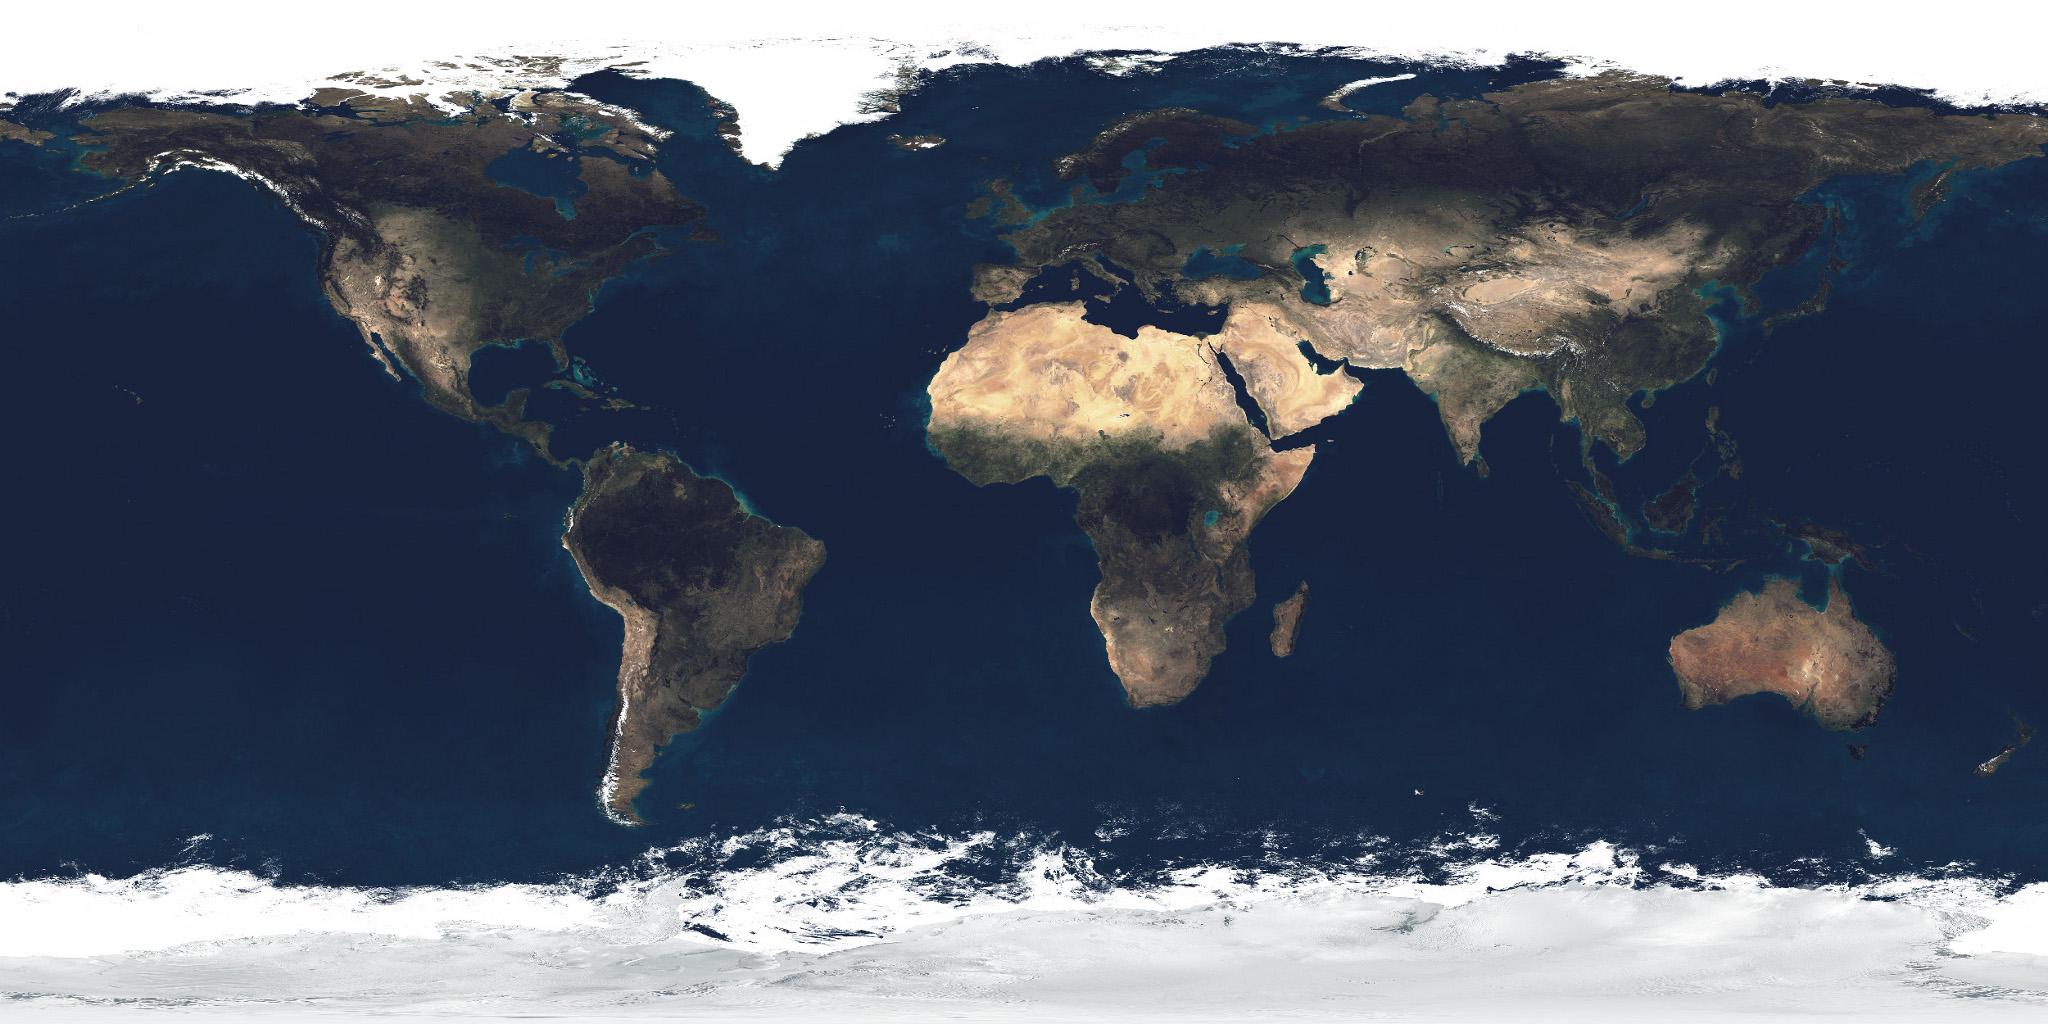
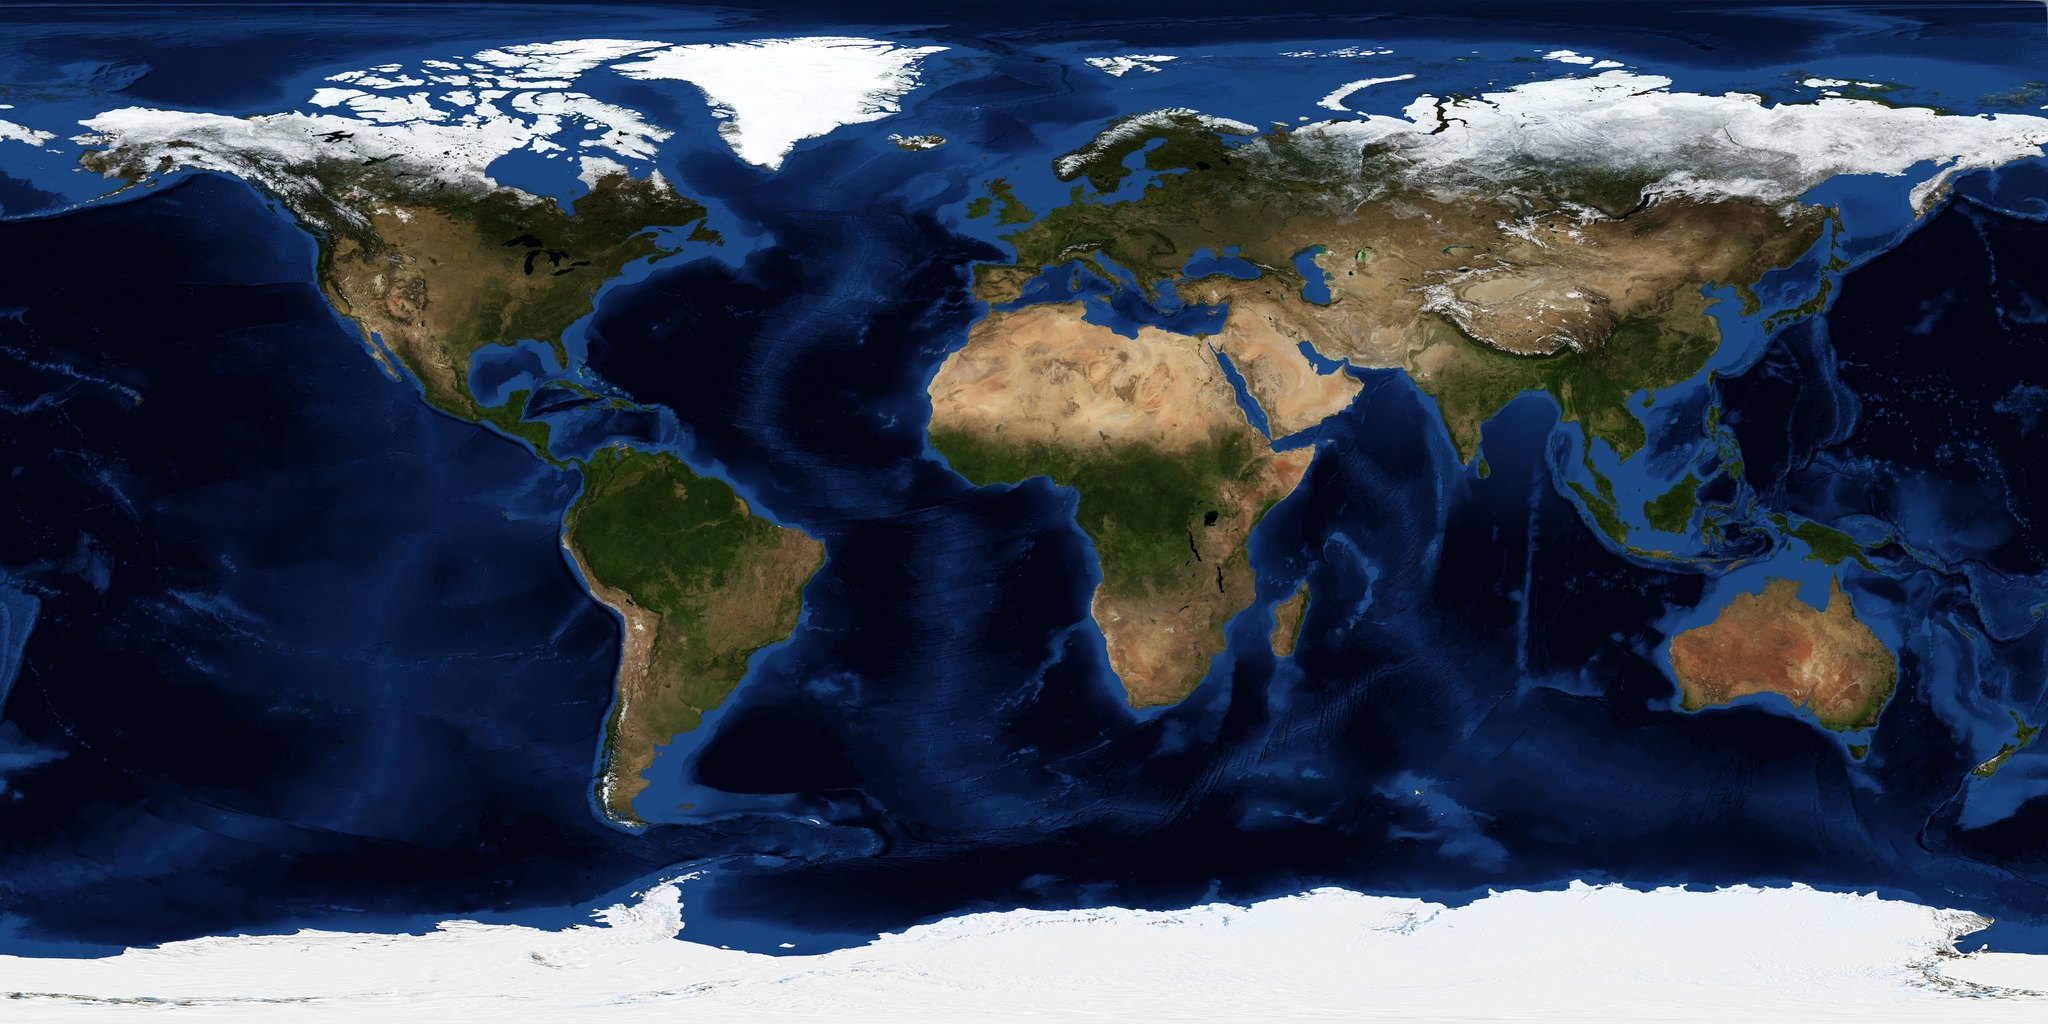
Sharper Earth: brighter NASA Blue Marble, a closer zoom and a sharp picture fetched on zoom (#12)
Claude-Session: https://claude.ai/code/session_01G4M6k3y9gZ3Ng9Ath7pp1m

diff --git a/src/lib/globe.js b/src/lib/globe.js
@@ -2,6 +2,7 @@ import * as THREE from 'three';
 import { OrbitControls } from 'three/addons/controls/OrbitControls.js';
 import { CATEGORY_COLORS as categories } from '../types/index.ts';
 import { GLOBE_FOV_DEGREES, START_DISTANCE, touchWindowDiameter } from './globe-touch.ts';
+import { BASE_EARTH_URL, MAX_ZOOM_DISTANCE, MIN_ZOOM_DISTANCE, SHARP_EARTH_URL, shouldLoadSharpEarth } from './globe-detail.ts';
 
 const point = (lat, lng, r = 1) => {
   const phi = (90 - lat) * Math.PI / 180, theta = (lng + 180) * Math.PI / 180;
@@ -33,10 +34,21 @@ export async function createGlobe({ host, stage, markerHost, touchHost, getMode,
     host.appendChild(renderer.domElement); camera.position.copy(point(20, 5, matchMedia('(max-width: 767px)').matches ? START_DISTANCE.phone : START_DISTANCE.default));
     controls = new OrbitControls(camera, touchHost ?? renderer.domElement);
     controls.enablePan = false; controls.enableDamping = true; controls.dampingFactor = .07; controls.rotateSpeed = .55; controls.zoomSpeed = .65;
-    controls.minDistance = 1.65; controls.maxDistance = 5; controls.minPolarAngle = .05; controls.maxPolarAngle = Math.PI - .05; controls.update(); controls.saveState();
-    const texture = await new THREE.TextureLoader().loadAsync('/assets/earth.jpg');
-    texture.colorSpace = THREE.SRGBColorSpace; texture.anisotropy = Math.min(8, renderer.capabilities.getMaxAnisotropy());
-    scene.add(new THREE.Mesh(new THREE.SphereGeometry(1, 96, 64), new THREE.MeshPhongMaterial({ map: texture, shininess: 5, specular: 0x223344 })));
+    controls.minDistance = MIN_ZOOM_DISTANCE; controls.maxDistance = MAX_ZOOM_DISTANCE; controls.minPolarAngle = .05; controls.maxPolarAngle = Math.PI - .05; controls.update(); controls.saveState();
+    const prepare = picture => { picture.colorSpace = THREE.SRGBColorSpace; picture.anisotropy = Math.min(8, renderer.capabilities.getMaxAnisotropy()); return picture; };
+    const earth = new THREE.MeshPhongMaterial({ map: prepare(await new THREE.TextureLoader().loadAsync(BASE_EARTH_URL)), shininess: 5, specular: 0x223344 });
+    scene.add(new THREE.Mesh(new THREE.SphereGeometry(1, 96, 64), earth));
+    // The sharp picture is fetched once, the first time the reader zooms in close. Any failure keeps the lighter picture and is not retried.
+    let sharp = 'base'; host.dataset.earthDetail = sharp;
+    const setSharp = state => { sharp = state; host.dataset.earthDetail = state; };
+    const upgradeEarth = () => {
+      if (!shouldLoadSharpEarth({ distance: camera.position.length(), saveData: !!navigator.connection?.saveData, maxTextureSize: renderer.capabilities.maxTextureSize, requested: sharp !== 'base' })) return;
+      setSharp('loading');
+      new THREE.TextureLoader().loadAsync(SHARP_EARTH_URL).then(picture => {
+        if (disposed) { picture.dispose(); return; }
+        const lighter = earth.map; earth.map = prepare(picture); lighter?.dispose(); setSharp('sharp'); dirty = true;
+      }).catch(() => { if (!disposed) setSharp('failed'); });
+    };
     scene.add(new THREE.AmbientLight(0xffffff, 2.1)); const sunlight = new THREE.DirectionalLight(0xdcefff, 2); scene.add(sunlight);
     scene.add(new THREE.Mesh(new THREE.SphereGeometry(1.025, 64, 48), new THREE.ShaderMaterial({ transparent: true, depthWrite: false, blending: THREE.AdditiveBlending,
       uniforms: { glowColor: { value: new THREE.Color('#339FFF') } },
@@ -60,7 +72,7 @@ export async function createGlobe({ host, stage, markerHost, touchHost, getMode,
         camera.position.copy(from.applyQuaternion(new THREE.Quaternion().slerp(q, ease)).multiplyScalar(THREE.MathUtils.lerp(flight.from.length(), flight.to.length(), ease)));
         if (t === 1) flight = null; dirty = true;
       }
-      controls.update(); if (!dirty) return; dirty = false;
+      controls.update(); upgradeEarth(); if (!dirty) return; dirty = false;
       sunlight.position.copy(camera.position).add(new THREE.Vector3(-2, 2, 1)); camera.updateMatrixWorld(); renderer.render(scene, camera); fitTouch();
       for (const marker of markers.values()) {
         const normal = marker.p.clone().normalize(), view = camera.position.clone().sub(marker.p).normalize(), screen = marker.p.clone().project(camera);

diff --git a/src/App.tsx b/src/App.tsx
@@ -147,7 +147,7 @@ export default function App() {
         <div className="map-controls" role="group" aria-label="Globe controls" hidden={mode === 'list'}><button aria-label="Zoom in" disabled={!globeReady} onClick={() => globe.current?.zoom(.85)}><Icon name="plus" /></button><button aria-label="Zoom out" disabled={!globeReady} onClick={() => globe.current?.zoom(1/.85)}><Icon name="minus" /></button><button aria-label="Reset globe orientation" disabled={!globeReady} onClick={() => globe.current?.reset()}><Icon name="compass" /></button><button aria-label={expanded ? 'Exit expanded globe' : 'Expand globe'} onClick={() => void expand()}><Icon name="expand" /></button></div>
         <div className="list-view" hidden={mode !== 'list'}><div className="list-view-heading"><div><p className="eyebrow">A little perspective</p><h2>Good news, wherever you look.</h2></div><span className="meta">{heading} · {view.length}{unreadNote}{demo ? ' · Design samples' : ''}</span></div>{!quietWeek && previousToggle}<div id="list-grid">{view.length ? listed.map(s => <StoryButton key={s.id} story={s} read={!!read[s.id]} selected={selected?.id === s.id} onSelect={select} />) : empty}</div></div>
         {selected && mode === 'globe' && <SelectedStoryCard key={selected.id} story={selected} saved={saved.has(selected.id)} position={position} enterFrom={enterFrom} onSave={() => toggleSave(selected)} onClose={() => { setSelected(null); discovery.current?.focus(); }} onStep={direction => void step(direction)} onReadSample={() => setDialog('sample')} />}
-        <div className="globe-footer"><span className="hint"><Icon name="mouse" />Drag to rotate · Scroll to zoom · Select a pin</span><button className="surprise" ref={discovery} disabled={!view.length} onClick={() => discover(true)}><Icon name="shuffle" />Take me somewhere good</button></div><a className="credit" href="https://visibleearth.nasa.gov/images/57723/the-blue-marble" target="_blank" rel="noopener noreferrer">Earth imagery: NASA / Blue Marble</a>
+        <div className="globe-footer"><span className="hint"><Icon name="mouse" />Drag to rotate · Scroll to zoom · Select a pin</span><button className="surprise" ref={discovery} disabled={!view.length} onClick={() => discover(true)}><Icon name="shuffle" />Take me somewhere good</button></div><a className="credit" href="https://science.nasa.gov/earth/earth-observatory/blue-marble-next-generation/" target="_blank" rel="noopener noreferrer">Earth imagery: NASA / Blue Marble</a>
       </section></main>
       <nav className="category-dock" aria-label="Story categories">{categoryChips()}</nav>
       <footer className="reader-footer" aria-label="Reader information"><div><button onClick={() => setDialog('about')}>About</button><button onClick={() => setDialog('privacy')}>Privacy</button><button onClick={() => setDialog('terms')}>Terms &amp; sources</button></div><p className="builder-credit">Built by Ian Alexander Ventures LLC · © 2026</p></footer>

diff --git a/src/lib/globe-detail.ts b/src/lib/globe-detail.ts
@@ -1,0 +1,39 @@
+/**
+ * How close the globe can zoom, and when to fetch the sharper Earth picture.
+ * Pure helpers, so the rules can be tested without a browser.
+ *
+ * Two pictures of the same NASA Blue Marble ship with the app: a lighter one that every visitor loads first
+ * (earth.jpg, 2048 pixels wide) and a sharp one (earth-sharp.jpg, 4096 pixels wide, about 1.4 MB) that is only
+ * fetched once somebody zooms in, so people who never zoom never download it.
+ */
+
+/** Closest the camera may come to the middle of the globe. The surface is 1 away, so 1.45 is 0.45 Earth radii above it. */
+export const MIN_ZOOM_DISTANCE = 1.45;
+/** Farthest the camera may go. Unchanged. */
+export const MAX_ZOOM_DISTANCE = 5;
+/** The start view sits at 3.45 (3.7 on phones) and flying to a story at 3.05, so a deliberate zoom is needed to cross this. */
+export const SHARP_EARTH_DISTANCE = 2.7;
+/** The sharp picture is this many pixels wide; a graphics card must be able to hold a texture that large. */
+export const SHARP_EARTH_WIDTH = 4096;
+
+export const BASE_EARTH_URL = '/assets/earth.jpg';
+export const SHARP_EARTH_URL = '/assets/earth-sharp.jpg';
+
+export interface SharpEarthInput {
+  /** Camera distance from the middle of the globe. */
+  distance: number;
+  /** The reader asked their phone to save data (navigator.connection.saveData). */
+  saveData?: boolean;
+  /** The largest texture the graphics card accepts (renderer.capabilities.maxTextureSize). */
+  maxTextureSize: number;
+  /** A fetch was already started or finished, or failed once. It is never started twice. */
+  requested: boolean;
+}
+
+/** True once the reader has zoomed in close enough to want the sharp picture, and nothing rules it out. */
+export function shouldLoadSharpEarth({ distance, saveData = false, maxTextureSize, requested }: SharpEarthInput): boolean {
+  if (requested || saveData) return false;
+  if (!Number.isFinite(distance) || !Number.isFinite(maxTextureSize)) return false;
+  if (maxTextureSize < SHARP_EARTH_WIDTH) return false;
+  return distance <= SHARP_EARTH_DISTANCE;
+}

diff --git a/public/ASSETS.md b/public/ASSETS.md
@@ -4,14 +4,25 @@ Downloaded October 14, 2026. These are illustrative assets, not evidence for any
 
 | Local asset | Source |
 |---|---|
-| earth.jpg | https://threejs.org/examples/textures/planets/earth_atmos_2048.jpg |
+| earth.jpg | Lighter Earth picture (2048 x 1024, about 340 KB) that every visitor loads first. A LANCZOS downscale of `earth-sharp.jpg`, so both pictures show exactly the same Earth. |
+| earth-sharp.jpg | Sharp Earth picture (4096 x 2048, about 1.4 MB), fetched only once someone zooms in close. See "Earth imagery" below. |
 | coast.jpg | https://images.unsplash.com/photo-1510414842594-a61c69b5ae57?w=700&q=85&fit=crop |
 | wind.jpg | https://images.unsplash.com/photo-1466611653911-95081537e5b7?w=700&q=85&fit=crop |
 | city.jpg | https://images.unsplash.com/photo-1518391846015-55a9cc003b25?w=700&q=85&fit=crop |
 | Three.js code | npm package three@0.180.0; https://github.com/mrdoob/three.js/tree/r180 |
 | Reference concept | Generated for this PositiviTV conversation; first design only. |
 
-Earth source context: https://visibleearth.nasa.gov/images/57723/the-blue-marble — NASA Goddard Space Flight Center / Reto Stöckli. Keep appropriate imagery credits in the final product. The Three.js MIT license covers its code; it does not automatically license every third-party image. Review each asset's original usage terms before redistribution or public launch, and replace illustrative images with licensed article-specific imagery. Unsplash usage terms: https://unsplash.com/license. No third-party publisher endorsement is claimed.
+Earth source context (replaced October 15, 2026): the earlier `earth.jpg` came from the three.js examples (`earth_atmos_2048.jpg`).
+
+## Earth imagery (checked 15 October 2026)
+
+`earth-sharp.jpg` is byte for byte the file `example/img/earth-blue-marble.jpg` in the npm package `three-globe@2.45.6` (sha256 starting `228deba2e4b60014`). It matches NASA's Blue Marble: Next Generation with topography and bathymetry (January), https://science.nasa.gov/earth/earth-observatory/blue-marble-next-generation/base-topography-bathymetry/ , which NASA publishes at 5400 x 2700 and 21600 x 10800. The three-globe package is MIT licensed, and that license covers its code, not the picture, so the NASA terms are the ones that apply.
+
+- NASA's usage page (https://www.nasa.gov/nasa-brand-center/images-and-media/, read October 15, 2026) says NASA content is generally not subject to copyright in the United States and asks that NASA is acknowledged as the source. The app credits "NASA / Blue Marble" under the globe and in the About panel.
+- What was not verified: NASA's own download site is blocked from the build workspace, so this copy could not be compared byte for byte with NASA's original. Its identity rests on its filename, its package, and its look, which is the well-known NASA picture. If a byte-for-byte check or a higher resolution is wanted later, download NASA's 5400 x 2700 file from the page above.
+- NASA's marks (insignia, logotype) are not in the public domain and are not used. No NASA endorsement is claimed.
+
+Keep appropriate imagery credits in the final product. The Three.js MIT license covers its code; it does not automatically license every third-party image. Review each asset's original usage terms before redistribution or public launch, and replace illustrative images with licensed article-specific imagery. Unsplash usage terms: https://unsplash.com/license. No third-party publisher endorsement is claimed.
 
 The source photos are not the exact generated thumbnails inside the reference image. A pixel-identical reproduction is not implied.
 
